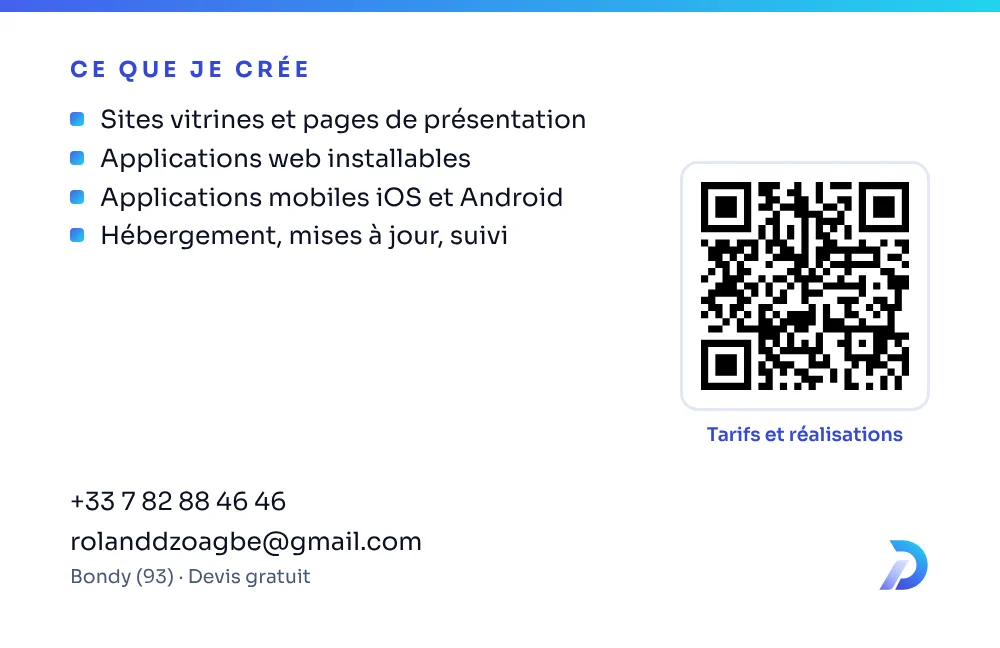
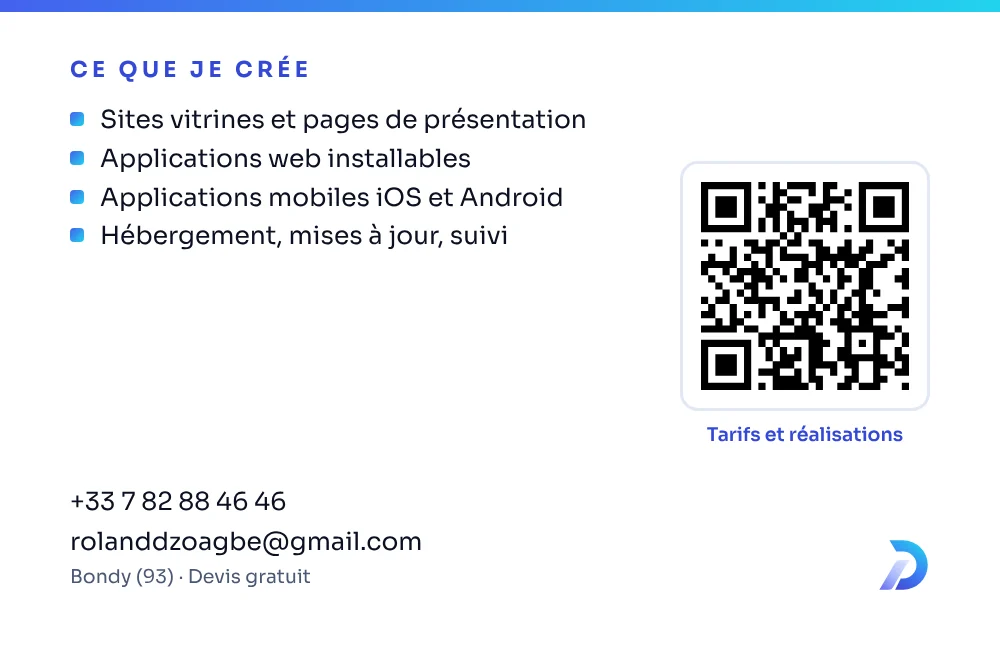
Move site address to rdzoagbe.github.io/dzoft after repo rename
Claude-Session: https://claude.ai/code/session_01Dpb5izMjNtg1wdiTyKXYn5

Changed region(s): [[0.682, 0.2778, 0.93, 0.6173]]

diff --git a/index.html b/index.html
@@ -5,13 +5,13 @@
 <meta name="viewport" content="width=device-width, initial-scale=1">
 <title>DZOFT · Création de sites web et d’applications à Bondy (93)</title>
 <meta name="description" content="Création de sites vitrines, d’applications web installables (PWA) et d’applications mobiles iOS et Android pour indépendants, commerces et petites structures à Bondy, en Seine-Saint-Denis et en Île-de-France. Prix fixe annoncé à l’avance, devis gratuit.">
-<link rel="canonical" href="https://rdzoagbe.github.io/rd-creations/">
+<link rel="canonical" href="https://rdzoagbe.github.io/dzoft/">
 <meta name="google-site-verification" content="zZVZ7FXNvzsUTL5keCEhJy942xB48JesPCYzpJOwXX4" />
 <meta property="og:type" content="website">
-<meta property="og:url" content="https://rdzoagbe.github.io/rd-creations/">
+<meta property="og:url" content="https://rdzoagbe.github.io/dzoft/">
 <meta property="og:title" content="Votre site ou votre application, sans le prix d’une agence">
 <meta property="og:description" content="Sites vitrines, applications web installables et applications mobiles pour indépendants, commerces et petites structures. Devis gratuit.">
-<meta property="og:image" content="https://rdzoagbe.github.io/rd-creations/assets/og.png">
+<meta property="og:image" content="https://rdzoagbe.github.io/dzoft/assets/og.png">
 <meta property="og:image:width" content="1200">
 <meta property="og:image:height" content="630">
 <meta property="og:locale" content="fr_FR">
@@ -24,12 +24,12 @@
  "@graph": [
   {
    "@type": "ProfessionalService",
-   "@id": "https://rdzoagbe.github.io/rd-creations/#entreprise",
+   "@id": "https://rdzoagbe.github.io/dzoft/#entreprise",
    "name": "DZOFT",
-   "url": "https://rdzoagbe.github.io/rd-creations/",
+   "url": "https://rdzoagbe.github.io/dzoft/",
    "description": "Création de sites vitrines, d’applications web installables (PWA) et d’applications mobiles iOS et Android pour indépendants, commerces et petites structures. Prix fixe annoncé à l’avance, devis gratuit.",
-   "logo": "https://rdzoagbe.github.io/rd-creations/assets/dzoft-logo-square-720.png",
-   "image": "https://rdzoagbe.github.io/rd-creations/assets/og.png",
+   "logo": "https://rdzoagbe.github.io/dzoft/assets/dzoft-logo-square-720.png",
+   "image": "https://rdzoagbe.github.io/dzoft/assets/og.png",
    "telephone": "+33782884646",
    "email": "rolanddzoagbe@gmail.com",
    "address": {
@@ -149,12 +149,12 @@
   },
   {
    "@type": "WebSite",
-   "@id": "https://rdzoagbe.github.io/rd-creations/#site",
-   "url": "https://rdzoagbe.github.io/rd-creations/",
+   "@id": "https://rdzoagbe.github.io/dzoft/#site",
+   "url": "https://rdzoagbe.github.io/dzoft/",
    "name": "DZOFT",
    "inLanguage": "fr-FR",
    "publisher": {
-    "@id": "https://rdzoagbe.github.io/rd-creations/#entreprise"
+    "@id": "https://rdzoagbe.github.io/dzoft/#entreprise"
    }
   }
  ]
@@ -622,8 +622,8 @@ footer details p{color:#8fa3b8;font-size:13.5px;padding:0 16px 14px}
         <figure class="bcard">
           <button class="bcard-flip" type="button" id="bcard" aria-pressed="false" aria-label="Carte de visite : afficher le verso">
             <span class="bcard-inner">
-              <img src="assets/carte-recto.webp?v=3" width="1000" height="648" alt="Carte de visite, recto : logo DZOFT, Digital solutions, built for growth. Roland Dzoagbe, fondateur, développeur web et mobile." loading="lazy">
-              <img src="assets/carte-verso.webp?v=3" width="1000" height="648" alt="Carte de visite, verso : sites vitrines et pages de présentation, applications web installables, applications mobiles iOS et Android, hébergement et suivi. Téléphone 07 82 88 46 46, e-mail rolanddzoagbe@gmail.com, Bondy (93), devis gratuit, et un QR code vers le site." loading="lazy">
+              <img src="assets/carte-recto.webp?v=4" width="1000" height="648" alt="Carte de visite, recto : logo DZOFT, Digital solutions, built for growth. Roland Dzoagbe, fondateur, développeur web et mobile." loading="lazy">
+              <img src="assets/carte-verso.webp?v=4" width="1000" height="648" alt="Carte de visite, verso : sites vitrines et pages de présentation, applications web installables, applications mobiles iOS et Android, hébergement et suivi. Téléphone 07 82 88 46 46, e-mail rolanddzoagbe@gmail.com, Bondy (93), devis gratuit, et un QR code vers le site." loading="lazy">
             </span>
           </button>
           <figcaption>Ma carte de visite · touchez pour la retourner · <a href="assets/carte-de-visite-dzoft.pdf" download>PDF</a></figcaption>

diff --git a/realisations.html b/realisations.html
@@ -5,12 +5,12 @@
 <meta name="viewport" content="width=device-width, initial-scale=1">
 <title>Réalisations · DZOFT</title>
 <meta name="description" content="Les projets réalisés par DZOFT : l’application mobile Ahenora (iOS, Android, web), la plateforme StackLens, l’espace client DZOFT et un site personnel bilingue.">
-<link rel="canonical" href="https://rdzoagbe.github.io/rd-creations/realisations.html">
+<link rel="canonical" href="https://rdzoagbe.github.io/dzoft/realisations.html">
 <meta property="og:type" content="website">
-<meta property="og:url" content="https://rdzoagbe.github.io/rd-creations/realisations.html">
+<meta property="og:url" content="https://rdzoagbe.github.io/dzoft/realisations.html">
 <meta property="og:title" content="Réalisations · DZOFT">
 <meta property="og:description" content="Applications mobiles, plateformes web et sites : des projets en ligne, utilisés et maintenus.">
-<meta property="og:image" content="https://rdzoagbe.github.io/rd-creations/assets/og.png">
+<meta property="og:image" content="https://rdzoagbe.github.io/dzoft/assets/og.png">
 <meta property="og:image:width" content="1200">
 <meta property="og:image:height" content="630">
 <meta property="og:locale" content="fr_FR">
@@ -28,13 +28,13 @@
      "@type": "ListItem",
      "position": 1,
      "name": "DZOFT",
-     "item": "https://rdzoagbe.github.io/rd-creations/"
+     "item": "https://rdzoagbe.github.io/dzoft/"
     },
     {
      "@type": "ListItem",
      "position": 2,
      "name": "Réalisations",
-     "item": "https://rdzoagbe.github.io/rd-creations/realisations.html"
+     "item": "https://rdzoagbe.github.io/dzoft/realisations.html"
     }
    ]
   },
@@ -52,7 +52,7 @@
       "operatingSystem": "iOS, Android, Web",
       "applicationCategory": "LifestyleApplication",
       "author": {
-       "@id": "https://rdzoagbe.github.io/rd-creations/#entreprise"
+       "@id": "https://rdzoagbe.github.io/dzoft/#entreprise"
       }
      }
     },
@@ -66,7 +66,7 @@
       "applicationCategory": "BusinessApplication",
       "operatingSystem": "Web",
       "author": {
-       "@id": "https://rdzoagbe.github.io/rd-creations/#entreprise"
+       "@id": "https://rdzoagbe.github.io/dzoft/#entreprise"
       }
      }
     },
@@ -76,9 +76,9 @@
      "item": {
       "@type": "WebSite",
       "name": "La plateforme DZOFT",
-      "url": "https://rdzoagbe.github.io/rd-creations/",
+      "url": "https://rdzoagbe.github.io/dzoft/",
       "author": {
-       "@id": "https://rdzoagbe.github.io/rd-creations/#entreprise"
+       "@id": "https://rdzoagbe.github.io/dzoft/#entreprise"
       }
      }
     },
@@ -90,7 +90,7 @@
       "name": "Site personnel de Roland Dzoagbe",
       "url": "https://rdzoagbe.github.io/Portfolio.RDzoagbe/",
       "author": {
-       "@id": "https://rdzoagbe.github.io/rd-creations/#entreprise"
+       "@id": "https://rdzoagbe.github.io/dzoft/#entreprise"
       }
      }
     }

diff --git a/espace/index.html b/espace/index.html
@@ -809,7 +809,7 @@ footer{max-width:1180px}
       '<div class="qacts"><label class="btn main" style="cursor:pointer">Envoyer des fichiers<input type="file" id="up" multiple hidden accept="image/*,.pdf,.zip,.txt,.doc,.docx,.xls,.xlsx,.ppt,.pptx"></label></div>' +
       '<p class="msgline" id="up-msg" role="status" aria-live="polite"></p><ul class="docs" id="flist"><li class="muted">Chargement…</li></ul>') + '</section>';
     quotes().filter(function(q){ return invoices(q).length; }).forEach(function(q){ h += '<section class="card"><h2>Factures · ' + esc(title(q)) + '</h2>' + invoiceList(q).replace('<h3 class="subh">Vos factures</h3>', '') + '</section>'; });
-    h += '<section class="card"><h2>Toujours disponibles</h2>' + docsList([{ n: 'Fiche de remise (modèle)', u: 'https://rdzoagbe.github.io/rd-creations/assets/fiche-de-remise-client.pdf' }]) + '</section>';
+    h += '<section class="card"><h2>Toujours disponibles</h2>' + docsList([{ n: 'Fiche de remise (modèle)', u: 'https://rdzoagbe.github.io/dzoft/assets/fiche-de-remise-client.pdf' }]) + '</section>';
     if (!qs.length) return h + empty('Les documents de vos projets apparaîtront ici.');
     return h + qs.map(function(q){ return '<section class="card"><h2>' + esc(title(q)) + '</h2>' + docsList(okDocs(q)) + '</section>'; }).join('');
   };
@@ -952,7 +952,7 @@ footer{max-width:1180px}
       '<div><span>Acompte</span>' + a.pct + ' %</div>' + (f.pay ? '<div><span>Paiement</span>' + esc(f.pay) + '</div>' : '') +
       (f.fix ? '<div><span>Corrections</span>' + esc(f.fix) + '</div>' : '') + '</div>' +
       (f.notes ? '<p style="margin-top:6px;white-space:pre-wrap;font-size:13px">' + esc(f.notes) + '</p>' : '');
-    h += '<p style="margin-top:10px;font-size:12.5px;color:var(--mute)">Conditions générales de vente : <a href="' + TERMS_URL + '" target="_blank" rel="noopener">rdzoagbe.github.io/rd-creations/cgv.html</a></p>';
+    h += '<p style="margin-top:10px;font-size:12.5px;color:var(--mute)">Conditions générales de vente : <a href="' + TERMS_URL + '" target="_blank" rel="noopener">rdzoagbe.github.io/dzoft/cgv.html</a></p>';
     if (q.accepted_at) h += '<div class="signed">' + (q.accepted_method ? 'Signé électroniquement' : 'Bon pour accord donné en ligne') + ' le ' + time(q.accepted_at) + ' par ' + esc(q.accepted_name) +
       (q.accepted_method ? ' (code reçu ' + (q.accepted_method === 'sms' ? 'par SMS au ' : 'par e-mail à ') + esc(q.accepted_target || '') + ')' : '') +
       (q.accepted_terms ? ', avec acceptation des conditions générales de vente (version ' + esc(q.accepted_terms.replace(/^v/, '')) + ')' + (q.accepted_early_start ? ' et demande de démarrage immédiat' : '') : '') + '.</div>';

diff --git a/admin/devis.html b/admin/devis.html
@@ -180,7 +180,7 @@ a.tb{text-decoration:none;display:inline-flex;align-items:center}
       <div class="l">SIRET 104 838 727 00014</div>
       <input class="f" data-k="myaddr" data-keep="1" placeholder="Votre adresse professionnelle (obligatoire)">
       <div class="l">07 82 88 46 46 · rolanddzoagbe@gmail.com</div>
-      <div class="l">rdzoagbe.github.io/rd-creations</div>
+      <div class="l">rdzoagbe.github.io/dzoft</div>
     </div>
     <div class="party">
       <h3>Client</h3>
@@ -255,7 +255,7 @@ a.tb{text-decoration:none;display:inline-flex;align-items:center}
     <div class="box" id="client-sign"><b>Le client</b><div class="hint">Date, signature et mention manuscrite « Bon pour accord »</div></div>
   </div>
 
-  <div class="foot">DZOFT · Roland Dzoagbe, entrepreneur individuel · SIRET 104 838 727 00014 · Prix nets, en euros.<br>L’acceptation du devis vaut acceptation des conditions générales de vente : rdzoagbe.github.io/rd-creations/cgv.html</div>
+  <div class="foot">DZOFT · Roland Dzoagbe, entrepreneur individuel · SIRET 104 838 727 00014 · Prix nets, en euros.<br>L’acceptation du devis vaut acceptation des conditions générales de vente : rdzoagbe.github.io/dzoft/cgv.html</div>
 </main>
 
 <script src="sb.js"></script>

diff --git a/supabase/functions/notify-client/index.ts b/supabase/functions/notify-client/index.ts
@@ -2,7 +2,7 @@
 import { createClient } from "npm:@supabase/supabase-js@2";
 
 const OWNER = "roland.dzoagbe@hotmail.com";
-const PORTAL = "https://rdzoagbe.github.io/rd-creations/espace/";
+const PORTAL = "https://rdzoagbe.github.io/dzoft/espace/";
 const cors = {
   "Access-Control-Allow-Origin": "*",
   "Access-Control-Allow-Headers": "authorization, x-client-info, apikey, content-type",
@@ -30,7 +30,7 @@ function mail(title: string, paras: string[], button: string, link: string) {
   ${paras.map((p) => `<p>${p}</p>`).join("\n  ")}
   <p style="text-align:center;margin:28px 0"><a href="${esc(link)}" style="background:#4361EE;color:#ffffff;text-decoration:none;padding:12px 22px;border-radius:10px;font-weight:bold;display:inline-block">${esc(button)}</a></p>
   <p>Roland Dzoagbe<br>DZOFT · 07 82 88 46 46</p>
-  <p style="font-size:12px;color:#5d6f83">Vous recevez cet e-mail parce que vous êtes client de DZOFT. Votre espace : <a href="${PORTAL}" style="color:#3448D6">rdzoagbe.github.io/rd-creations/espace</a></p>
+  <p style="font-size:12px;color:#5d6f83">Vous recevez cet e-mail parce que vous êtes client de DZOFT. Votre espace : <a href="${PORTAL}" style="color:#3448D6">rdzoagbe.github.io/dzoft/espace</a></p>
 </div>`;
 }
 

diff --git a/admin/index.html b/admin/index.html
@@ -295,7 +295,7 @@ td select{width:auto;padding:4px 6px;font-size:13px}
       </div>
       <div class="panel">
         <h3>Documents légaux</h3>
-        <p style="font-size:14px">Conditions générales de vente (version 2026-10) : <a href="../cgv.html" target="_blank" rel="noopener">rdzoagbe.github.io/rd-creations/cgv.html</a>. Le client les accepte en même temps que le devis, et choisit s’il veut démarrer avant la fin du délai de rétractation de 14 jours.</p>
+        <p style="font-size:14px">Conditions générales de vente (version 2026-10) : <a href="../cgv.html" target="_blank" rel="noopener">rdzoagbe.github.io/dzoft/cgv.html</a>. Le client les accepte en même temps que le devis, et choisit s’il veut démarrer avant la fin du délai de rétractation de 14 jours.</p>
         <p style="font-size:14px;margin-top:8px;color:#8a5a00;background:#fff3d6;border-radius:8px;padding:8px 10px">À compléter dans les CGV : le médiateur de la consommation (article 16), obligatoire pour vos clients particuliers.</p>
       </div>
     </section>

diff --git a/404.html b/404.html
@@ -5,8 +5,8 @@
 <meta name="viewport" content="width=device-width, initial-scale=1">
 <meta name="robots" content="noindex">
 <title>Page introuvable · DZOFT</title>
-<link rel="icon" href="/rd-creations/assets/dzoft-favicon.svg" type="image/svg+xml">
+<link rel="icon" href="/dzoft/assets/dzoft-favicon.svg" type="image/svg+xml">
 <style>body{margin:0;min-height:100vh;display:grid;place-items:center;background:#0B1020;color:#e4edf6;font-family:system-ui,-apple-system,"Segoe UI",Roboto,Arial,sans-serif;text-align:center;padding:16px}img{width:90px}h1{font-size:24px;margin:18px 0 6px}a{color:#8EA2FF;font-weight:700}</style>
 </head>
-<body><div><img src="/rd-creations/assets/dzoft-mark.svg" alt="DZOFT"><h1>Cette page n’existe pas</h1><p><a href="/rd-creations/">Retour à l’accueil de DZOFT</a></p></div></body>
+<body><div><img src="/dzoft/assets/dzoft-mark.svg" alt="DZOFT"><h1>Cette page n’existe pas</h1><p><a href="/dzoft/">Retour à l’accueil de DZOFT</a></p></div></body>
 </html>

diff --git a/admin/sb.js b/admin/sb.js
@@ -7,8 +7,8 @@
   var OWNER = 'roland.dzoagbe@hotmail.com';
   // The client space and the request form keep their own session, apart from the private space.
   var STORE = global.RD_STORE || 'rd-admin-session';
-  var ADMIN = 'https://rdzoagbe.github.io/rd-creations/admin/';
-  var PORTAL = 'https://rdzoagbe.github.io/rd-creations/espace/';
+  var ADMIN = 'https://rdzoagbe.github.io/dzoft/admin/';
+  var PORTAL = 'https://rdzoagbe.github.io/dzoft/espace/';
 
   function getSession() { try { return JSON.parse(localStorage.getItem(STORE) || 'null'); } catch (e) { return null; } }
   function setSession(s) {

diff --git a/confidentialite.html b/confidentialite.html
@@ -5,7 +5,7 @@
 <meta name="viewport" content="width=device-width, initial-scale=1">
 <title>Confidentialité · DZOFT</title>
 <meta name="description" content="Politique de confidentialité de DZOFT : données collectées, finalités, durées de conservation, prestataires et droits.">
-<link rel="canonical" href="https://rdzoagbe.github.io/rd-creations/confidentialite.html">
+<link rel="canonical" href="https://rdzoagbe.github.io/dzoft/confidentialite.html">
 <meta name="theme-color" content="#0B1020">
 <link rel="icon" href="assets/dzoft-favicon.svg" type="image/svg+xml">
 <style>

diff --git a/cgv.html b/cgv.html
@@ -5,7 +5,7 @@
 <meta name="viewport" content="width=device-width, initial-scale=1">
 <title>Conditions générales de vente · DZOFT</title>
 <meta name="description" content="Conditions générales de vente des prestations DZOFT : sites web, applications web installables et applications mobiles.">
-<link rel="canonical" href="https://rdzoagbe.github.io/rd-creations/cgv.html">
+<link rel="canonical" href="https://rdzoagbe.github.io/dzoft/cgv.html">
 <meta name="theme-color" content="#0B1020">
 <link rel="icon" href="assets/dzoft-favicon.svg" type="image/svg+xml">
 <style>

diff --git a/docs/emails-supabase.md b/docs/emails-supabase.md
@@ -15,7 +15,7 @@
     <a href="{{ .ConfirmationURL }}" style="background:#4361EE;color:#ffffff;text-decoration:none;padding:12px 22px;border-radius:10px;font-weight:bold;display:inline-block">Activer mon espace</a>
   </p>
   <p>Vous y suivrez votre demande, recevrez votre devis et pourrez m’écrire.</p>
-  <p>Ensuite, pour vous connecter : <a href="https://rdzoagbe.github.io/rd-creations/espace/" style="color:#3448D6">rdzoagbe.github.io/rd-creations/espace</a>, avec votre e-mail et votre mot de passe.</p>
+  <p>Ensuite, pour vous connecter : <a href="https://rdzoagbe.github.io/dzoft/espace/" style="color:#3448D6">rdzoagbe.github.io/dzoft/espace</a>, avec votre e-mail et votre mot de passe.</p>
   <p>Si vous n’êtes pas à l’origine de cette demande, ignorez simplement cet e-mail.</p>
   <p>Roland Dzoagbe<br>DZOFT · 07 82 88 46 46</p>
 </div>
@@ -33,7 +33,7 @@
   <p style="text-align:center;margin:28px 0">
     <a href="{{ .ConfirmationURL }}" style="background:#4361EE;color:#ffffff;text-decoration:none;padding:12px 22px;border-radius:10px;font-weight:bold;display:inline-block">Choisir mon mot de passe</a>
   </p>
-  <p>Ensuite, vous vous connecterez à votre espace ici : <a href="https://rdzoagbe.github.io/rd-creations/espace/" style="color:#3448D6">rdzoagbe.github.io/rd-creations/espace</a></p>
+  <p>Ensuite, vous vous connecterez à votre espace ici : <a href="https://rdzoagbe.github.io/dzoft/espace/" style="color:#3448D6">rdzoagbe.github.io/dzoft/espace</a></p>
   <p>Ce lien n’est valable qu’une fois et pour une durée limitée. Si vous n’avez rien demandé, ignorez cet e-mail : votre mot de passe actuel reste valable.</p>
   <p>Roland Dzoagbe<br>DZOFT · 07 82 88 46 46</p>
 </div>

diff --git a/README.md b/README.md
@@ -2,7 +2,7 @@
 
 Site de l'activité de création de sites web, d'applications web installables (PWA) et d'applications mobiles de Roland Dzoagbe, entrepreneur individuel.
 
-- Site public : https://rdzoagbe.github.io/rd-creations/
+- Site public : https://rdzoagbe.github.io/dzoft/
 - Espace privé (connexion requise) : `/admin/` — demandes, clients et devis, stockés dans Supabase (projet RD-Clients, région Paris), protégés par row level security.
 - Suivi client (privé) : `/admin/suivi.html?q=…` — rendre un devis visible, envoyer le lien, étapes, documents, messages.
 - Espace client : `/espace/` — le client se connecte (e-mail et mot de passe, compte créé en envoyant sa demande depuis le site) ou ouvre son lien privé `/espace/#<lien secret>` (demandes reçues par WhatsApp ou e-mail). Il voit ses demandes et ses devis, les accepte en ligne, suit l’avancement et écrit. Accès uniquement via les fonctions `my_*` (compte) et `portal_*` (lien).
